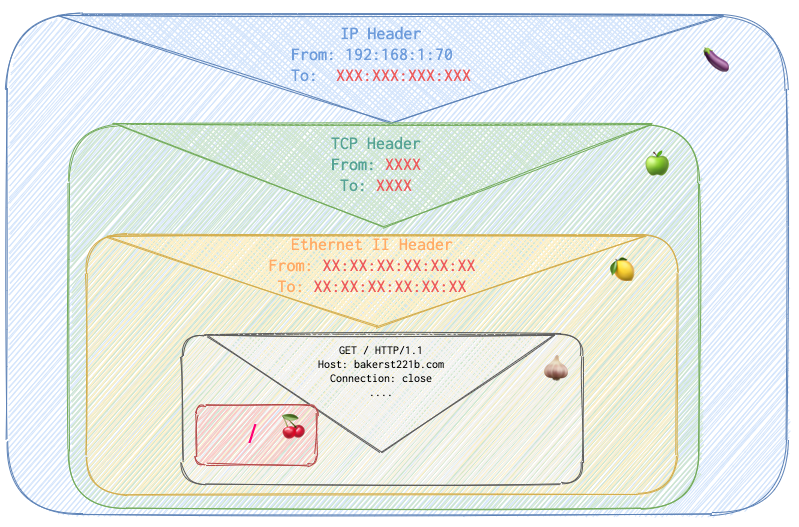
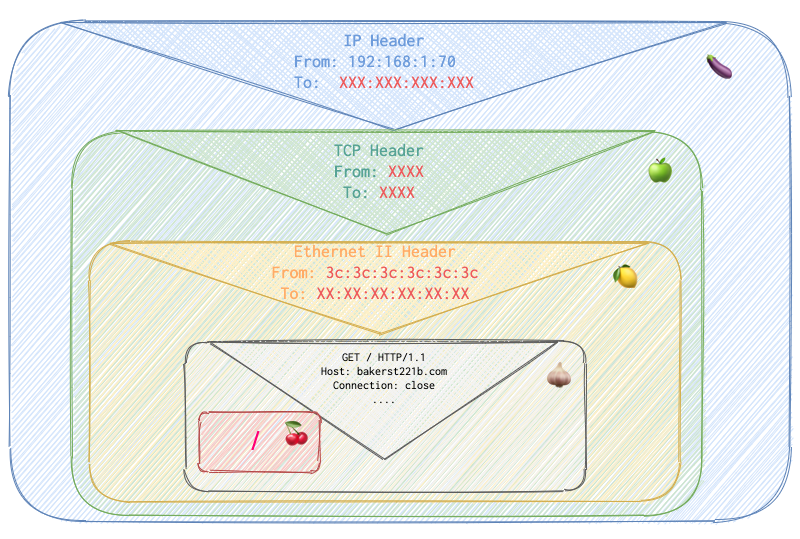
rebuilding site Sun Nov 29 21:35:13 MSK 2020

diff --git a/docs/articles/fundamentals/network/protocols/tcpip/index.html b/docs/articles/fundamentals/network/protocols/tcpip/index.html
@@ -259,17 +259,37 @@
 <span class="n">Sec</span><span class="o">-</span><span class="n">Fetch</span><span class="o">-</span><span class="n">Dest</span><span class="p">:</span> <span class="n">document</span>
 <span class="n">Accept</span><span class="o">-</span><span class="n">Encoding</span><span class="p">:</span> <span class="n">gzip</span><span class="p">,</span> <span class="n">deflate</span>
 <span class="n">Accept</span><span class="o">-</span><span class="n">Language</span><span class="p">:</span> <span class="n">en</span><span class="o">-</span><span class="n">US</span><span class="p">,</span><span class="n">en</span><span class="p">;</span><span class="n">q</span><span class="o">=</span><span class="mf">0.9</span><span class="p">,</span><span class="n">ru</span><span class="p">;</span><span class="n">q</span><span class="o">=</span><span class="mf">0.8</span><span class="p">,</span><span class="n">es</span><span class="p">;</span><span class="n">q</span><span class="o">=</span><span class="mf">0.7</span>
-</code></pre></div><p><img src="images/http-request.png" alt="http-request"></p>
-<h2 id="network-architecture">Network Architecture</h2>
+</code></pre></div><h2 id="network-architecture">Network Architecture</h2>
 <p>There is a nice family of Jack and Mary. They like pears 🍐 so let&rsquo;s mark their realm with one. The like this website and use it pretty often (grapes realm 🍇). But since these realms are quite far from each other, they can only communicate over some intermediary networks (network A ruled by <code>Router A</code> and network B ruled by <code>Router B</code>).</p>
 <p>Let&rsquo;s just asume that our PC with IP <code>192.168.1.70</code> and the website with IP <code>185.199.110.153</code> are on two different VLAN&rsquo;s that are connected via three routers and let&rsquo;s also assume our PC had to acquire MAC itseld. What would happen? Here is our current network architecture:</p>
 <p><img src="images/network-architecture.png" alt="network-architecture"></p>
 <p>Green arrows and green names with IP addresses (🍐 realm) is Mary&rsquo;s and Jack&rsquo;s home network. You can see lots of devices connected. Mary wants to connect to <code>bakerst221b.com</code>  using her laptop. Her requests will go to the <code>Jack's and Mary's Router</code>, then to the <code>Router A</code>, then <code>Router B</code> and get to <code>Bakerst221b.com's Router</code>. The latter will then forward the request to <code>bakerst221b.com</code>. So the route is 🍐 -&gt; 🍊 -&gt; 🍇. The response will go the same route but reversed (🍇 -&gt; 🍊 -&gt; 🍐).</p>
+<p>Let&rsquo;s see this work in more details using an example. One sunny day Mary decides to visit <code>bakerst221b.com</code> and check it for updates. She opens her laptop and opens a web browser. Then she types in the address bar <code>https://bakerst221b.com</code> and hits <code>Enter</code>. Her laptop is not panicking. It knows what to do. It needs to pack the following parcel:</p>
+<p><img src="images/http-request.png" alt="http-request"></p>
+<p><code>XXX</code> in red stand for some data that the PC 🖥 doesn&rsquo;t know at the moment:</p>
+<ul>
+<li><code>bakerst221b.com</code>'s IP address</li>
+<li><code>bakerst221b.com</code>'s port number</li>
+<li>Its own port number that it will use to send the request (it was not assigned yet)</li>
+<li><code>bakerst221b.com</code>'s MAC address</li>
+</ul>
+<p>It sends two separate request to fill in the fields in question.</p>
 <h2 id="step-1-get-the-ip-address">Step 1. Get the IP address</h2>
-<p>One sunny day Mary decides to visit <code>bakerst221b.com</code> and check it for updates. She opens her laptop and opens a web browser. Then she types in the address bar <code>https://bakerst221b.com</code> and hits <code>Enter</code>. Her laptop is not panicking. It knows what to do. It needs to pack the following parcel:</p>
-<p>Using DNS protocol (standart way of asking &ldquo;Whose IP is that?&quot;) it finds out the IP address of <code>bakerst221b.com</code>. As it turns out, 🖥 first tries doing this over IPv6 (red square) and fails. Two requests: for A and AAAA records (see <a href="#">DNS article</a>) to get both IPv4 and IPv6 addresses for <code>bakerst221b.com</code>. For both requests it (computer 🖥 got a <code>Refused</code> response). After that it tries to ask over IPv4 for the same both records (A and AAAA) and get the addresses:</p>
+<p>Using DNS protocol her PC asks the following:</p>
+<blockquote>
+<p>💻  &ldquo;I have a human readable garbage (<code>bakerst221b.com</code>), I need a hardcore machine equivalent (IP address). Does anyone know who the heck <code>bakerst221b.com</code> is?&rdquo;.</p>
+</blockquote>
+<p>&ndash; Whom is it asking?</p>
+<p>&ndash; A DNS server.</p>
+<p>&ndash; Where is it?</p>
+<p>&ndash; Her internet provider has it.</p>
+<p>&ndash; Does Internet Provider&rsquo;s DNS server has all the domain names?</p>
+<p>&ndash; Of course not. It would blow up. It asks its fellow DNS buddies until the right one is found.</p>
+<p>As it turns out,  Mary&rsquo;s laptop first tries doing this over IPv6 (red square) and fails. Two requests: for A and AAAA records (see <a href="#">DNS article</a>) to get both IPv4 and IPv6 addresses for <code>bakerst221b.com</code>. For both requests itgot a <code>Refused</code> response - I don&rsquo;t understand the whole internals of this, but guess IPv6 connection is not supported for my hosting server 💡 .</p>
+<p>Then it tries to ask over IPv4 for the same both records (A and AAAA) and gets the addresses it needed (purple square):</p>
 <p>![Screenshot 2020-11-29 at 6.27.07 PM](images/Screenshot 2020-11-29 at 6.27.07 PM.png)</p>
-<p>Since there are no IPv6 addresses assigned, 🖥 PC only needs the response for A record. Actually, there are 4 IPv4 addresses that <code>bakerst221b.com</code> uses. Ok, not that 🖥 gets its IPs, he can finally sign his first envelope (the IP header). But there are also transport and datalink layers.</p>
+<p>Since there are no IPv6 addresses assigned, 🖥 PC only needs the response for A record. Actually, there are 4 IPv4 addresses that <code>bakerst221b.com</code> uses. Ok, not that 🖥 gets its IPs, he can finally sign his first envelope (the IP header). But there are also transport and datalink layers&hellip;. His parcel now looks like this (see the outer envelope ✉  <code>To</code> field filled in):</p>
+<p><img src="images/http-request2.png" alt="http-request2"></p>
 <h2 id="step-2-get-the-mac-address">Step 2. Get the MAC address</h2>
 <p>As for Data Link layer, it&rsquo;s a tricky one. The 🖥 itself doesn&rsquo;t do that dirty job. It just puts its router&rsquo;s MAC address, knowing that the router will know what to do. Let see, what that little chap is doing. To determine MAC address (to sign the second envelope with MAC addresses) the router sends an ARP request. The below is ARP request</p>
 <p>![Screenshot 2020-11-29 at 7.17.15 PM](images/Screenshot 2020-11-29 at 7.17.15 PM.png)</p>
